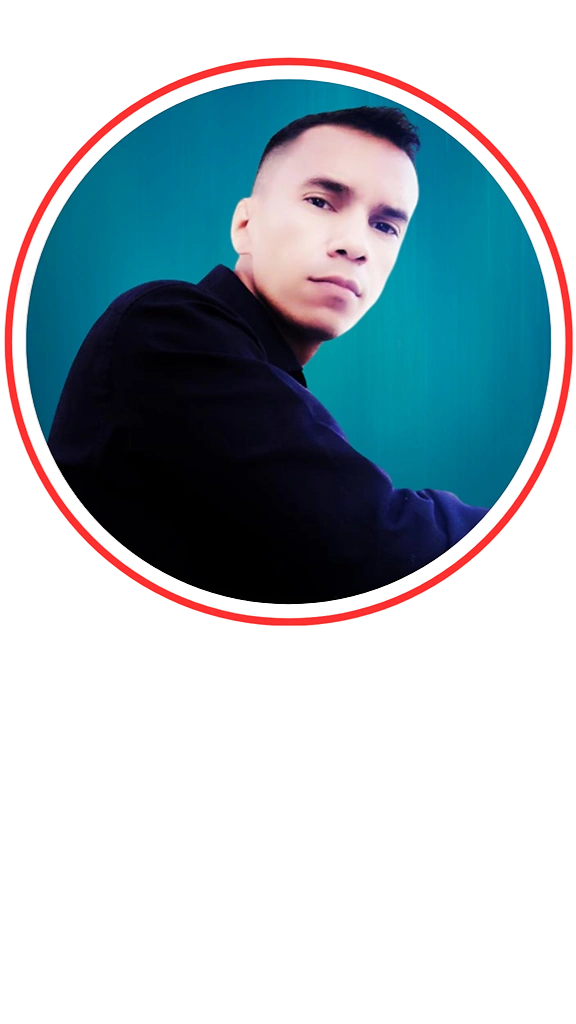
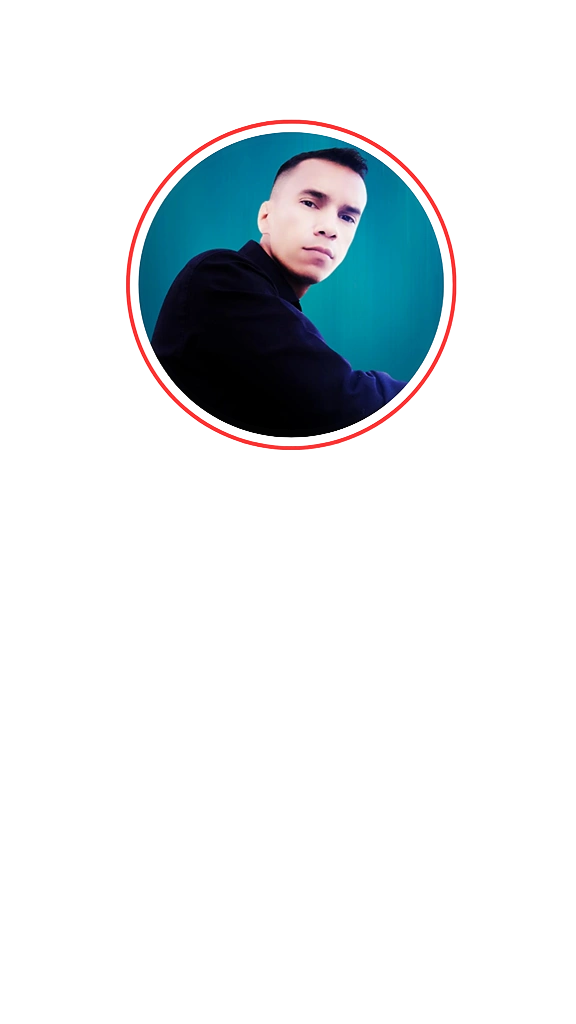
Header response step 2

diff --git a/css/components/header.css b/css/components/header.css
@@ -49,7 +49,7 @@ header.header__right.header__image .background {
 
 @media only screen and (max-width: 768px) {
     header {
-        flex-direction: column;
+        flex-direction: column-reverse;
         text-align: center;
     }
 
